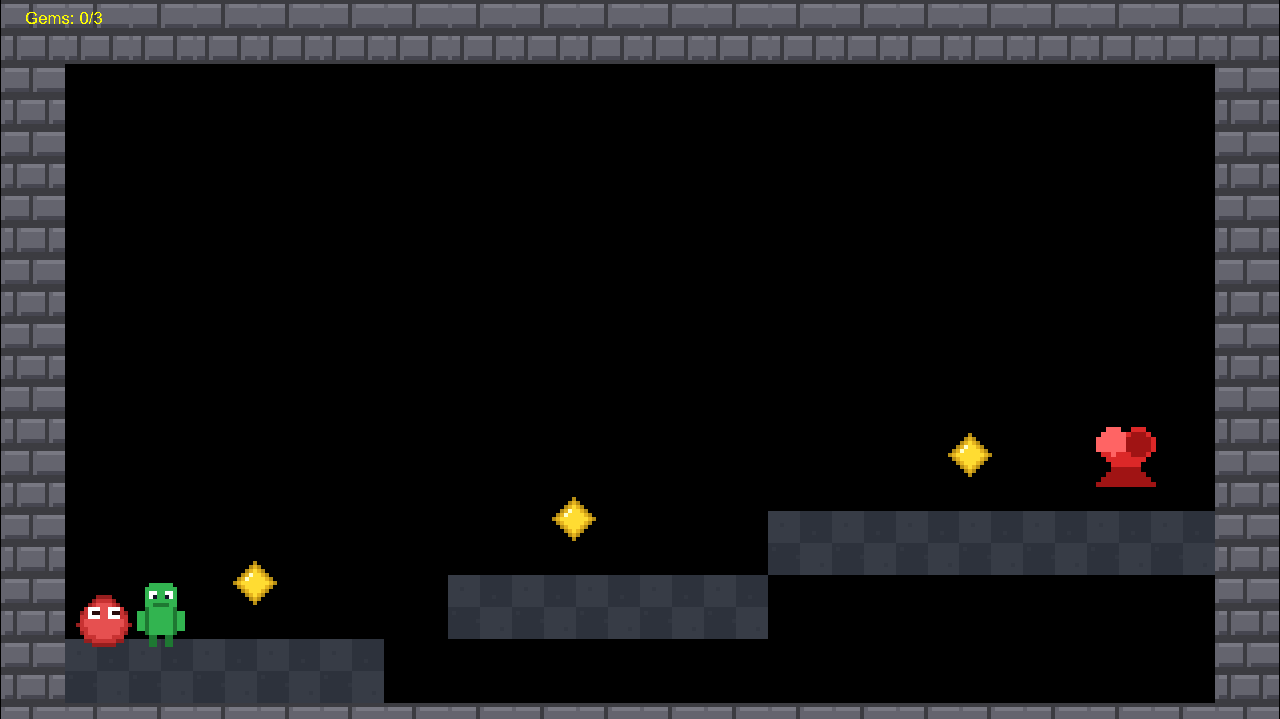
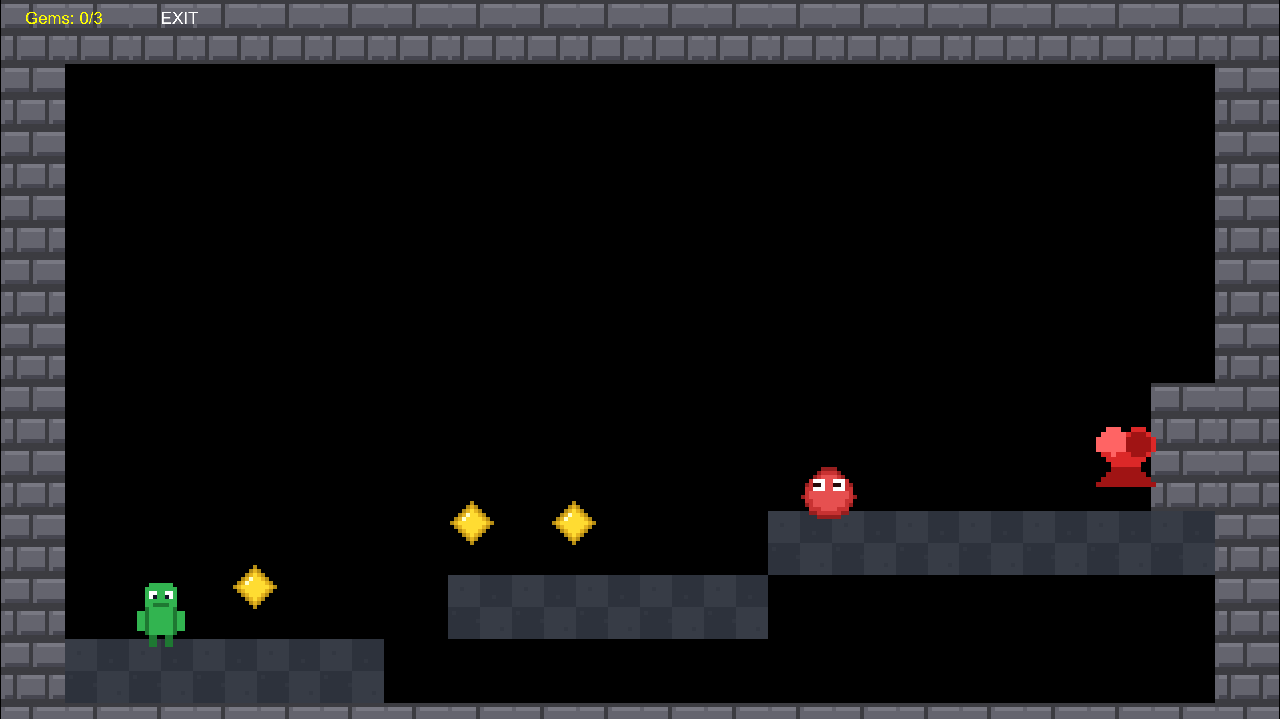
fix(techdemo): EXIT label, slime on far ledge, skippable third gem
Heart sits in a wall-tile doorway with an EXIT HUD. Slime patrols the far ledge, not spawn. Third gem is on mid so 2/3 can stand on the marker.

diff --git a/Examples/TechDemo/Scenes/GameScene.cpp b/Examples/TechDemo/Scenes/GameScene.cpp
@@ -40,7 +40,7 @@ void GameScene::resetGame()
     spawnPlayer();
     spawnGem(4.0f, 9.15f);
     spawnGem(9.0f, 8.15f);
-    spawnGem(15.2f, 7.15f);
+    spawnGem(7.4f, 8.15f);
     spawnEnemy();
     spawnExit();
     spawnHUD();
@@ -216,11 +216,11 @@ void GameScene::spawnEnemy()
 {
     auto enemy = m_entityManager->addEntity({"enemy"});
     enemy->setName("enemy");
-    auto& transform = enemy->addComponent<Comp::Transform>(glm::vec2(1.55f, 9.625f));
+    auto& transform = enemy->addComponent<Comp::Transform>(glm::vec2(12.8f, 7.625f));
     transform.pivot = Sprout::Pivot::CENTER;
     auto& sprite = enemy->addComponent<Comp::Sprite>(AssetManager::getTexture("enemy_walk"), 5.0f);
     sprite.setLayer(Comp::Layer::Midground);
-    enemy->addComponent<Comp::EnemyAI>(Comp::EnemyAI::PatrolType::HORIZONTAL, 0.6f, 0.35f);
+    enemy->addComponent<Comp::EnemyAI>(Comp::EnemyAI::PatrolType::HORIZONTAL, 0.4f, 0.25f);
 }
 
 void GameScene::spawnExit()
@@ -232,6 +232,18 @@ void GameScene::spawnExit()
     transform.scale = glm::vec3(1.25f, 1.25f, 1.0f);
     auto& sprite = exit->addComponent<Comp::Sprite>(AssetManager::getTexture("heart"));
     sprite.setLayer(Comp::Layer::Player);
+
+    // Doorway from wall tiles so the heart is not a 1-up.
+    spawnSolidTile(18, 7, true);
+    spawnSolidTile(18, 6, true);
+
+    auto label = m_entityManager->addEntity({"hud", "exit_label"});
+    label->addComponent<Comp::Transform>(glm::vec2(160, 24), Sprout::Pivot::TOP_LEFT, true);
+    label->addComponent<Comp::Text>(
+        "EXIT",
+        "game_font", 12, Color::White,
+        Sprout::TextJustify::LEFT
+    );
 }
 
 void GameScene::spawnHUD()

diff --git a/Examples/TechDemo/Scenes/TitleScene.cpp b/Examples/TechDemo/Scenes/TitleScene.cpp
@@ -91,7 +91,7 @@ void TitleScene::spawnUI()
     auto subtitle = m_entityManager->addEntity({"ui", "subtitle"});
     subtitle->addComponent<Comp::Transform>(glm::vec2(0, 160), Sprout::Pivot::TOP_CENTER, true);
     subtitle->addComponent<Comp::Text>(
-        "3 gems. Then the heart.",
+        "3 gems. Then the exit.",
         "game_font", 12, Color::PaleGray,
         Sprout::TextJustify::CENTER
     );

diff --git a/.cursor/skills/verify-sapling/features/u5-presentable.md b/.cursor/skills/verify-sapling/features/u5-presentable.md
@@ -1,20 +1,24 @@
 # Presentable
 
-Title names the goal. Pit shows YOU FELL then retries. In-game HUD is gems only.
+Title names the goal. Pit shows YOU FELL then retries. In-game HUD is gems plus an EXIT label. Far ledge is a doorway.
 
 ## Sub-features
 
-- `title-goal` subtitle is 3 gems then the heart. Controls stay on the title.
+- `title-goal` subtitle is 3 gems then the exit. Controls stay on the title.
 - `pit-tell` dropping below y 9.90 shows YOU FELL, then snap to 2.5, 9.625.
-- `quiet-hud` in-game HUD is Gems n/3. No A/D sticker.
+- `quiet-hud` Gems n/3 and EXIT. No A/D sticker.
+- `gem-lock` touching the heart at <3 gems stays in game and shows Need 3 gems. Third gem is on the mid ledge so the heart can be reached at 2/3.
+- `slime-off-spawn` enemy patrols the left of the far ledge, not the start tile.
 
 ## Driving it with sapling-ctl
 
-- Screenshot title before confirm. Text includes 3 gems and heart.
-- Confirm. Walk off the start ledge. Screenshot `fell.png` with YOU FELL. After the beat, state player at 2.5, 9.625.
-- Collect three, touch heart. Scene score, YOU WON.
+- Screenshot title: 3 gems. Then the exit.
+- Confirm. Start shot: player 2.5,9.625, slime on far ledge, EXIT in HUD.
+- Collect start gem and one mid gem, skip the other mid gem, reach the heart. State Gems 2/3, scene game, Need 3 gems.
+- Collect the last mid gem, touch heart, YOU WON.
+- Walk off start to the right. YOU FELL then retry 2.5,9.625.
 
 ## Gotchas
 
-- Spawn is still 2.5, 9.625. Walk D off the start ledge (tiles 1-5) to pit. Do not walk A into the slime first.
-- Win path is unchanged from U4.
+- Gems at 4.0 start, 7.4 and 9.0 mid. Heart at 17.6. Enemy at 12.8, 7.625.
+- Do not walk A at spawn; the slime is no longer there.
